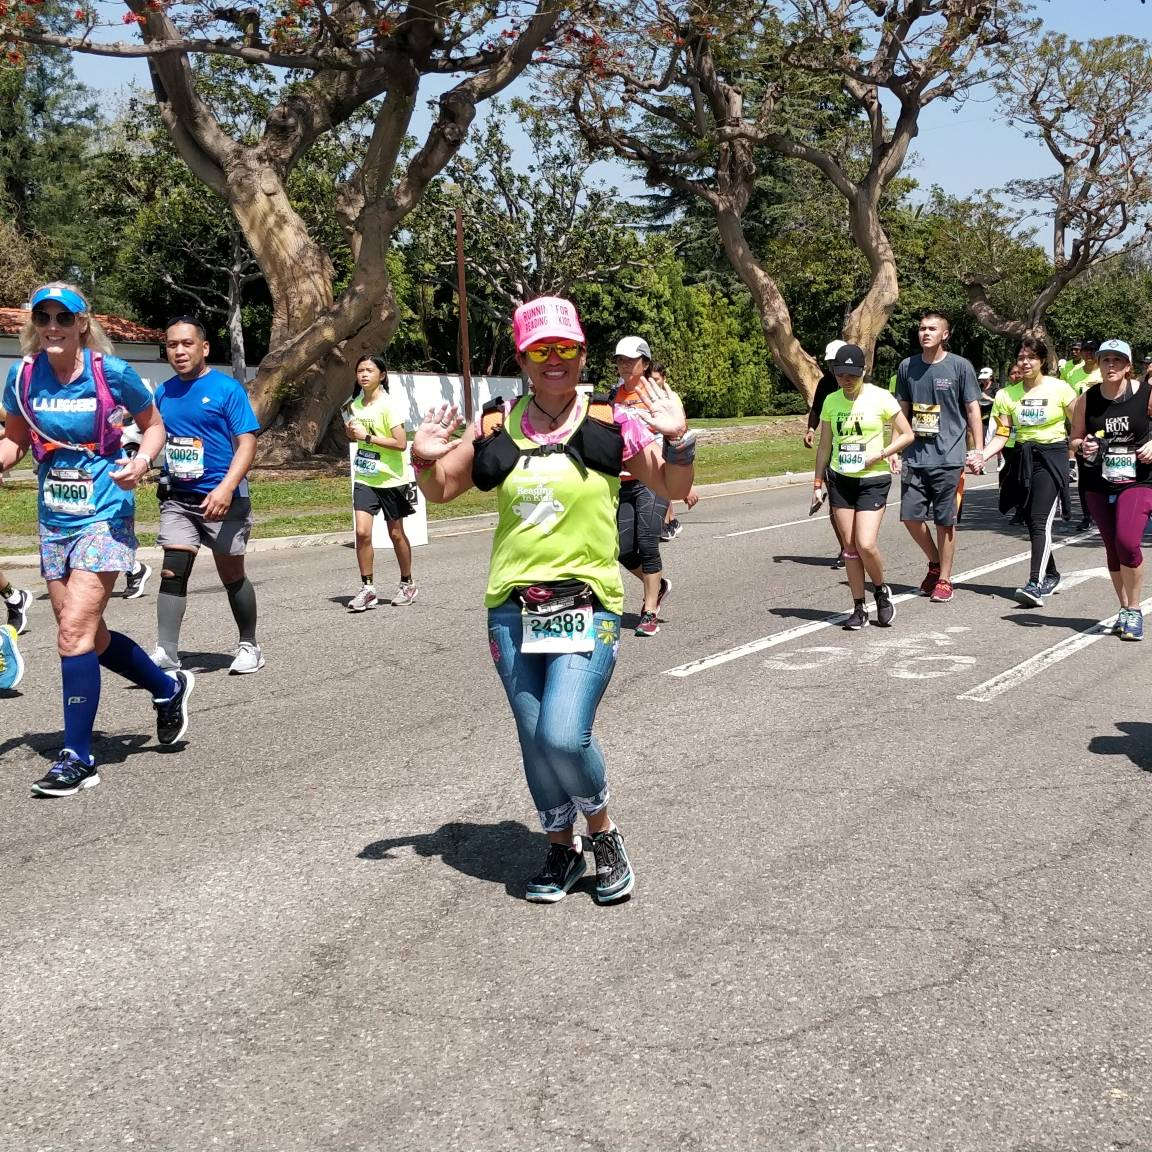
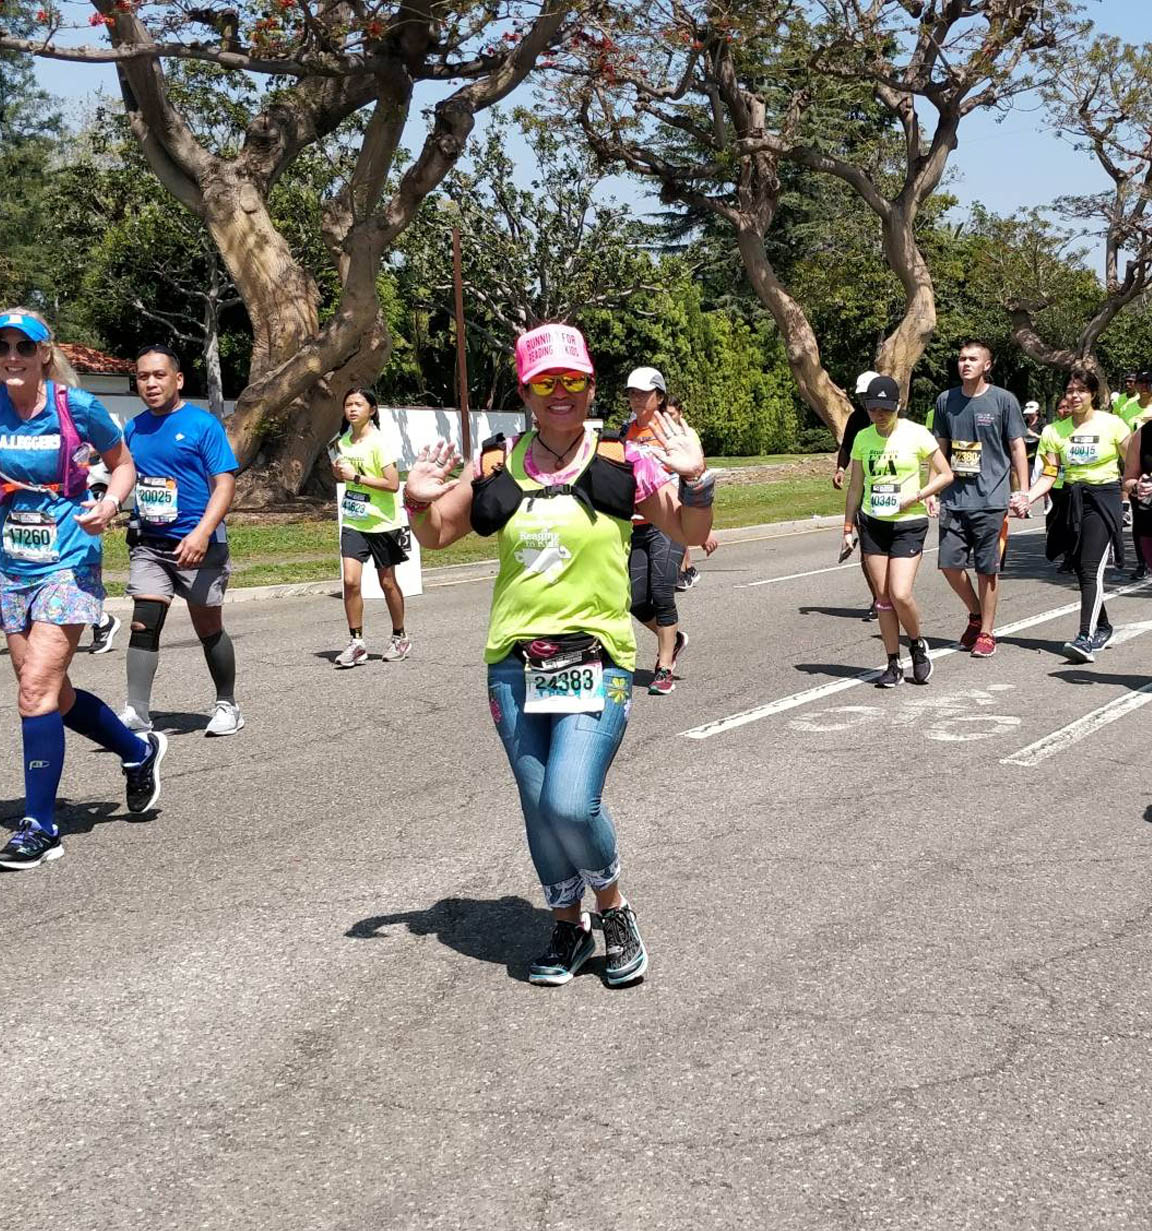
gallery fix
gallery- image sizes fixed,

diff --git a/final/pages/donation.html b/final/pages/donation.html
@@ -66,7 +66,7 @@
                 <div class="content">
                         <form id="regForm" action="">
 
-                                <h1>Donate Here!</h1>
+                                <h1 style="color: yellowgreen">Donate Here!</h1>
                                 
                                 <!-- One "tab" for each step in the form: -->
                                 <div class="tab">Contact Info:
@@ -119,23 +119,7 @@
     
         </div>
     </div>
-    <div class="blue foater-section small-width-50">
-            <div class="content">
-                
-                <div class="image-holder">
-        
-                </div>
-        
-            </div>
-        </div>
-        <div class="yelllow foater-section small-width-50">
-                <div class="content">
-                    <div class="image-holder">
-            
-                    </div>
-            
-                </div>
-            </div>
+    
             <div class="green floater-section footer">
                     <div class="content center">
                         <!-- Add font awesome icons -->

diff --git a/final/pages/gallery.html b/final/pages/gallery.html
@@ -25,7 +25,7 @@
     </div>
     </div>
     <span style="font-size:30px;cursor:pointer" onclick="openNav()">&#9776;</span>
-
+<!--gallery -->
 <div class="row"> 
   <div class="column">
     <img src="../images/center1.jpg" alt="center images">
@@ -35,7 +35,6 @@
     <img src="../images/center5.jpg" alt="center images">
     <img src="../images/center6.jpg" alt="center images">
     <img src="../images/center25.jpg" alt="center images">
-    <img src="../images/center26.jpg" alt="center images">
   </div>
   <div class="column">
         <img src="../images/center7.jpg" alt="center images">
@@ -43,7 +42,8 @@
         <img src="../images/center9.jpg" alt="center images">
         <img src="../images/center10.jpg" alt="center images">
         <img src="../images/center11.jpg" alt="center images">
-        <img src="../images/center12.jpg" alt="center images"> 
+        <img src="../images/center12.jpg" alt="center images">
+        <img src="../images/center26.jpg" alt="center images">
   </div> 
   <div class="column">
         <img src="../images/center13.jpg" alt="center images">

diff --git a/final/gallery.css b/final/gallery.css
@@ -4,7 +4,6 @@
     padding: 0 4px;
   }
   
-  /* Create four equal columns that sits next to each other */
   .column {
     flex: 25%;
     max-width: 25%;
@@ -17,7 +16,6 @@
     width: 100%;
   }
   
-  /* Responsive layout - makes a two column-layout instead of four columns */
   @media screen and (max-width: 800px) {
     .column {
       flex: 50%;
@@ -25,7 +23,6 @@
     }
   }
   
-  /* Responsive layout - makes the two columns stack on top of each other instead of next to each other */
   @media screen and (max-width: 600px) {
     .column {
       flex: 100%;

diff --git a/final/style.css b/final/style.css
@@ -17,9 +17,11 @@
 .content .image-holder {
   position: relative;
 }
+/* text and fonts*/
 h1 {
   text-align: center;
 }
+
 .footer {
   background-color: rgb(11, 150, 192)
 }
